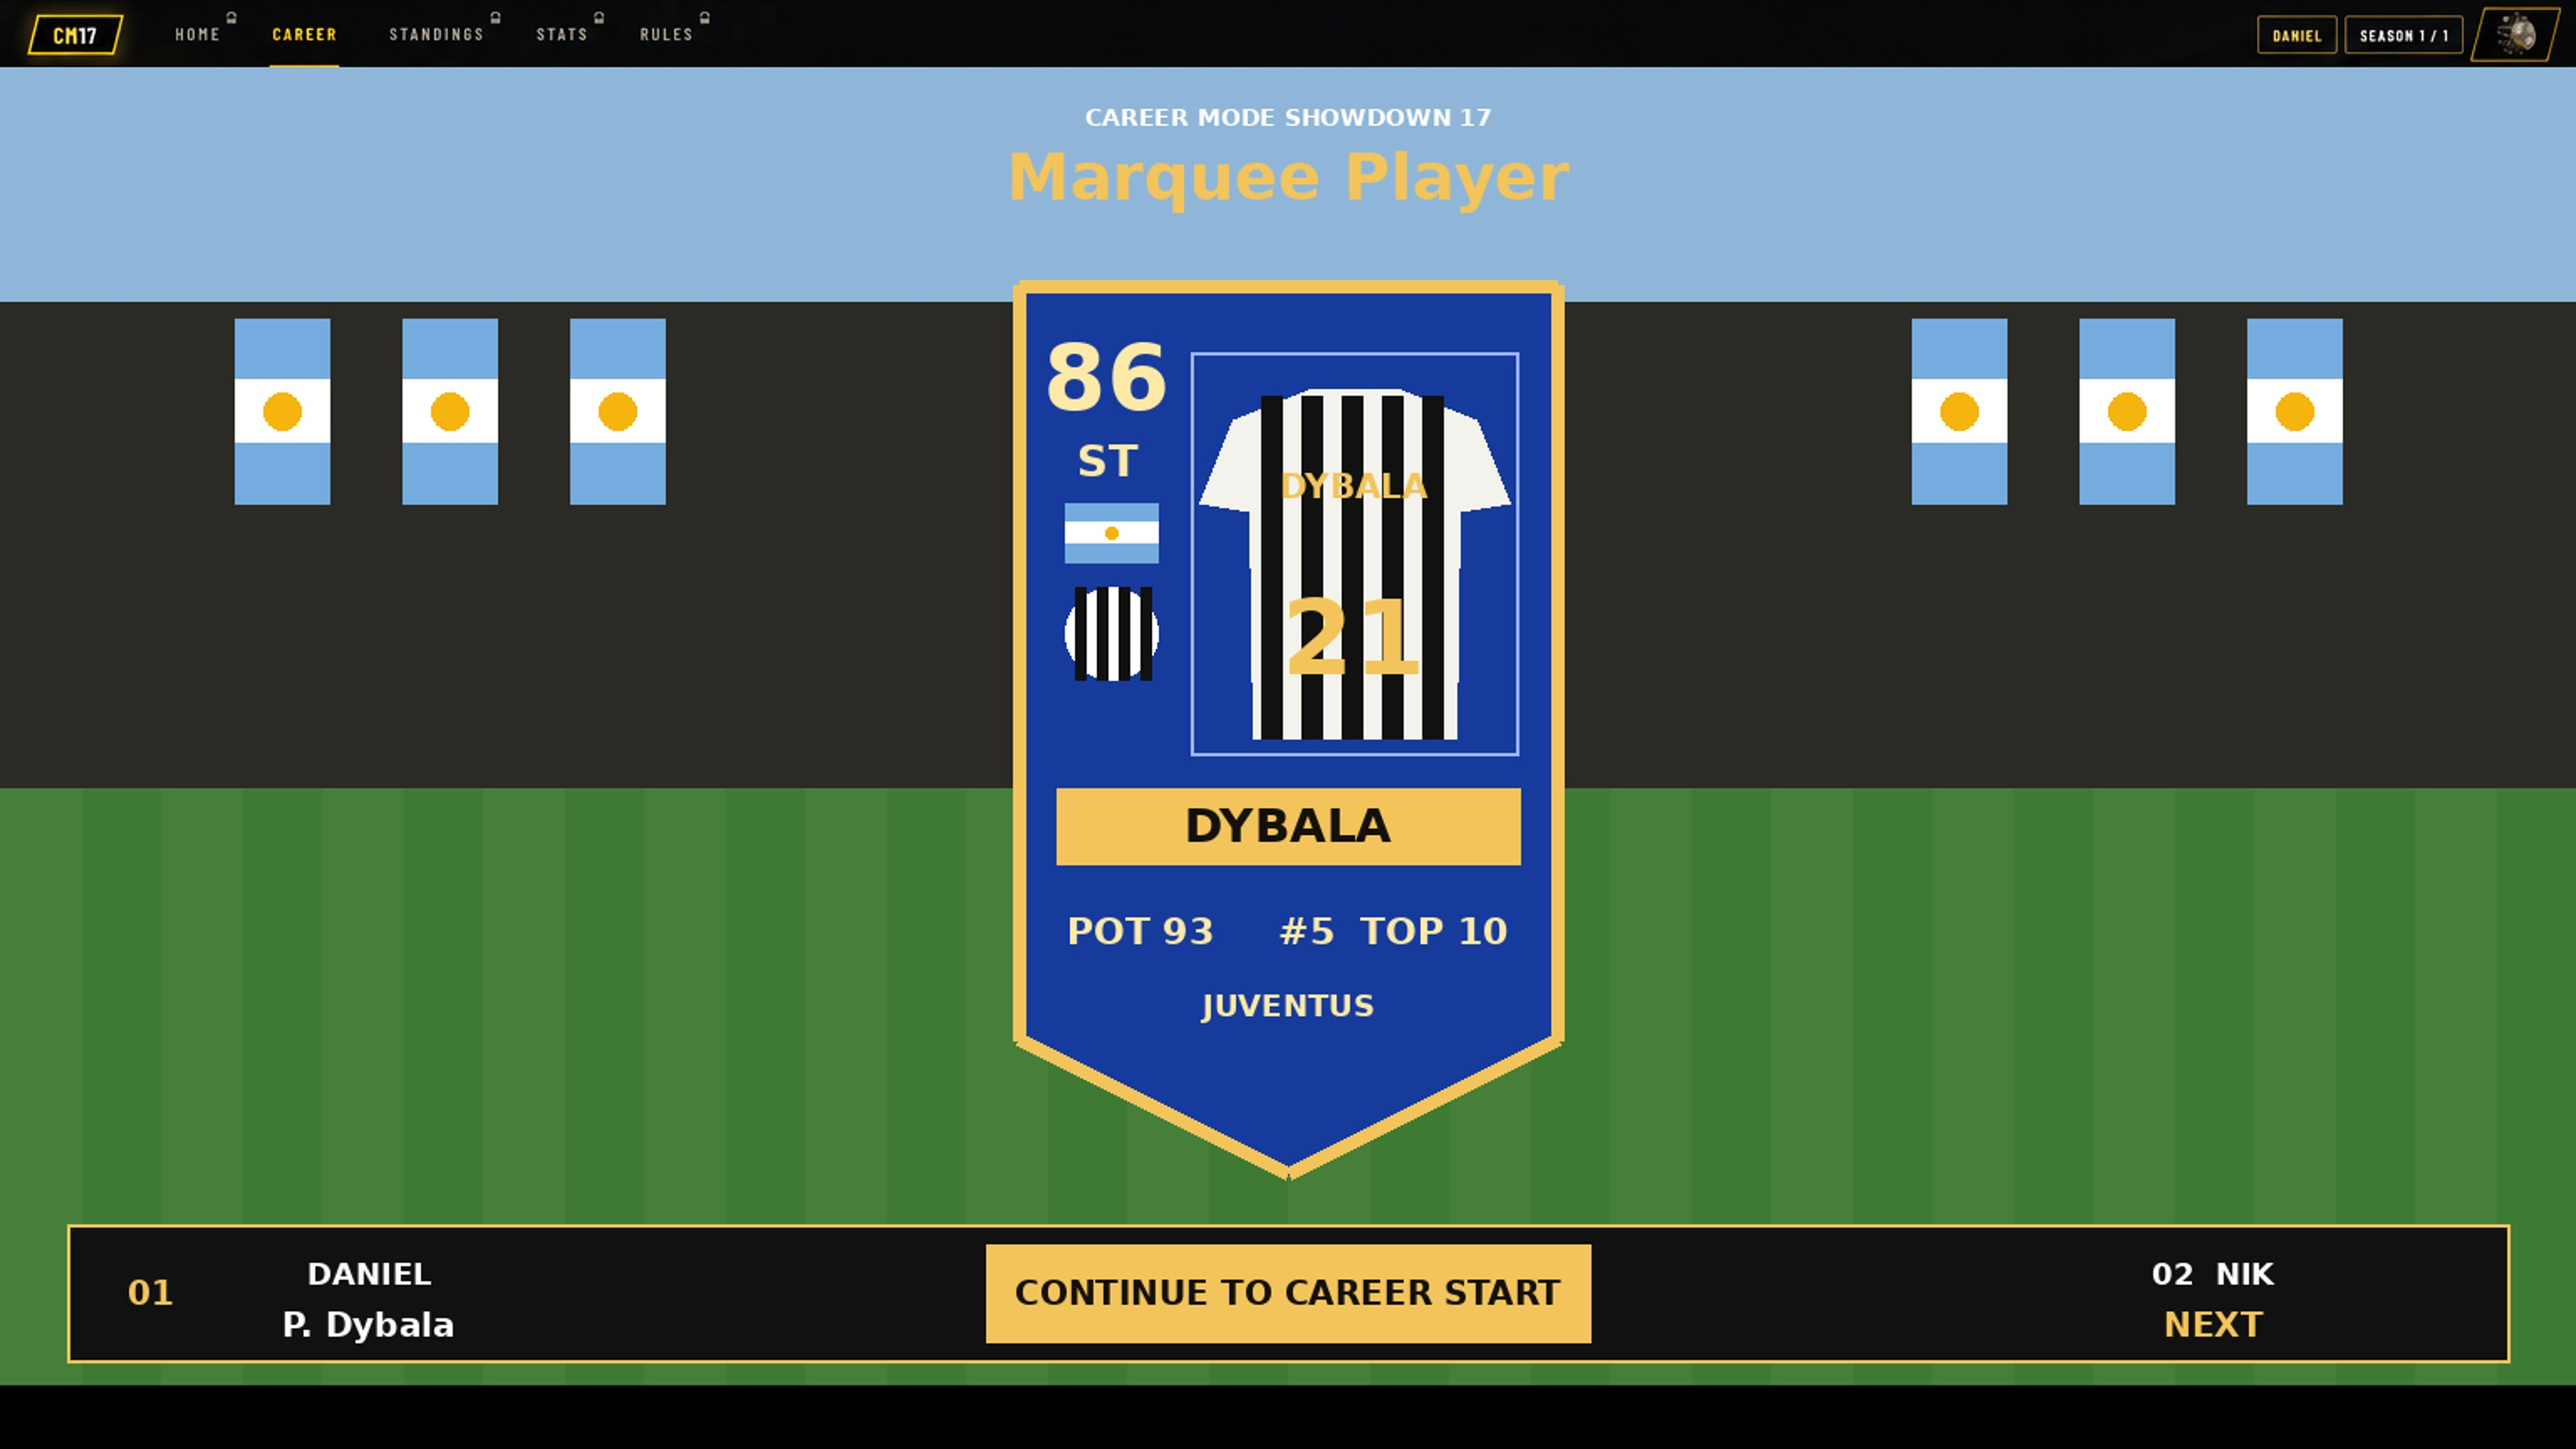
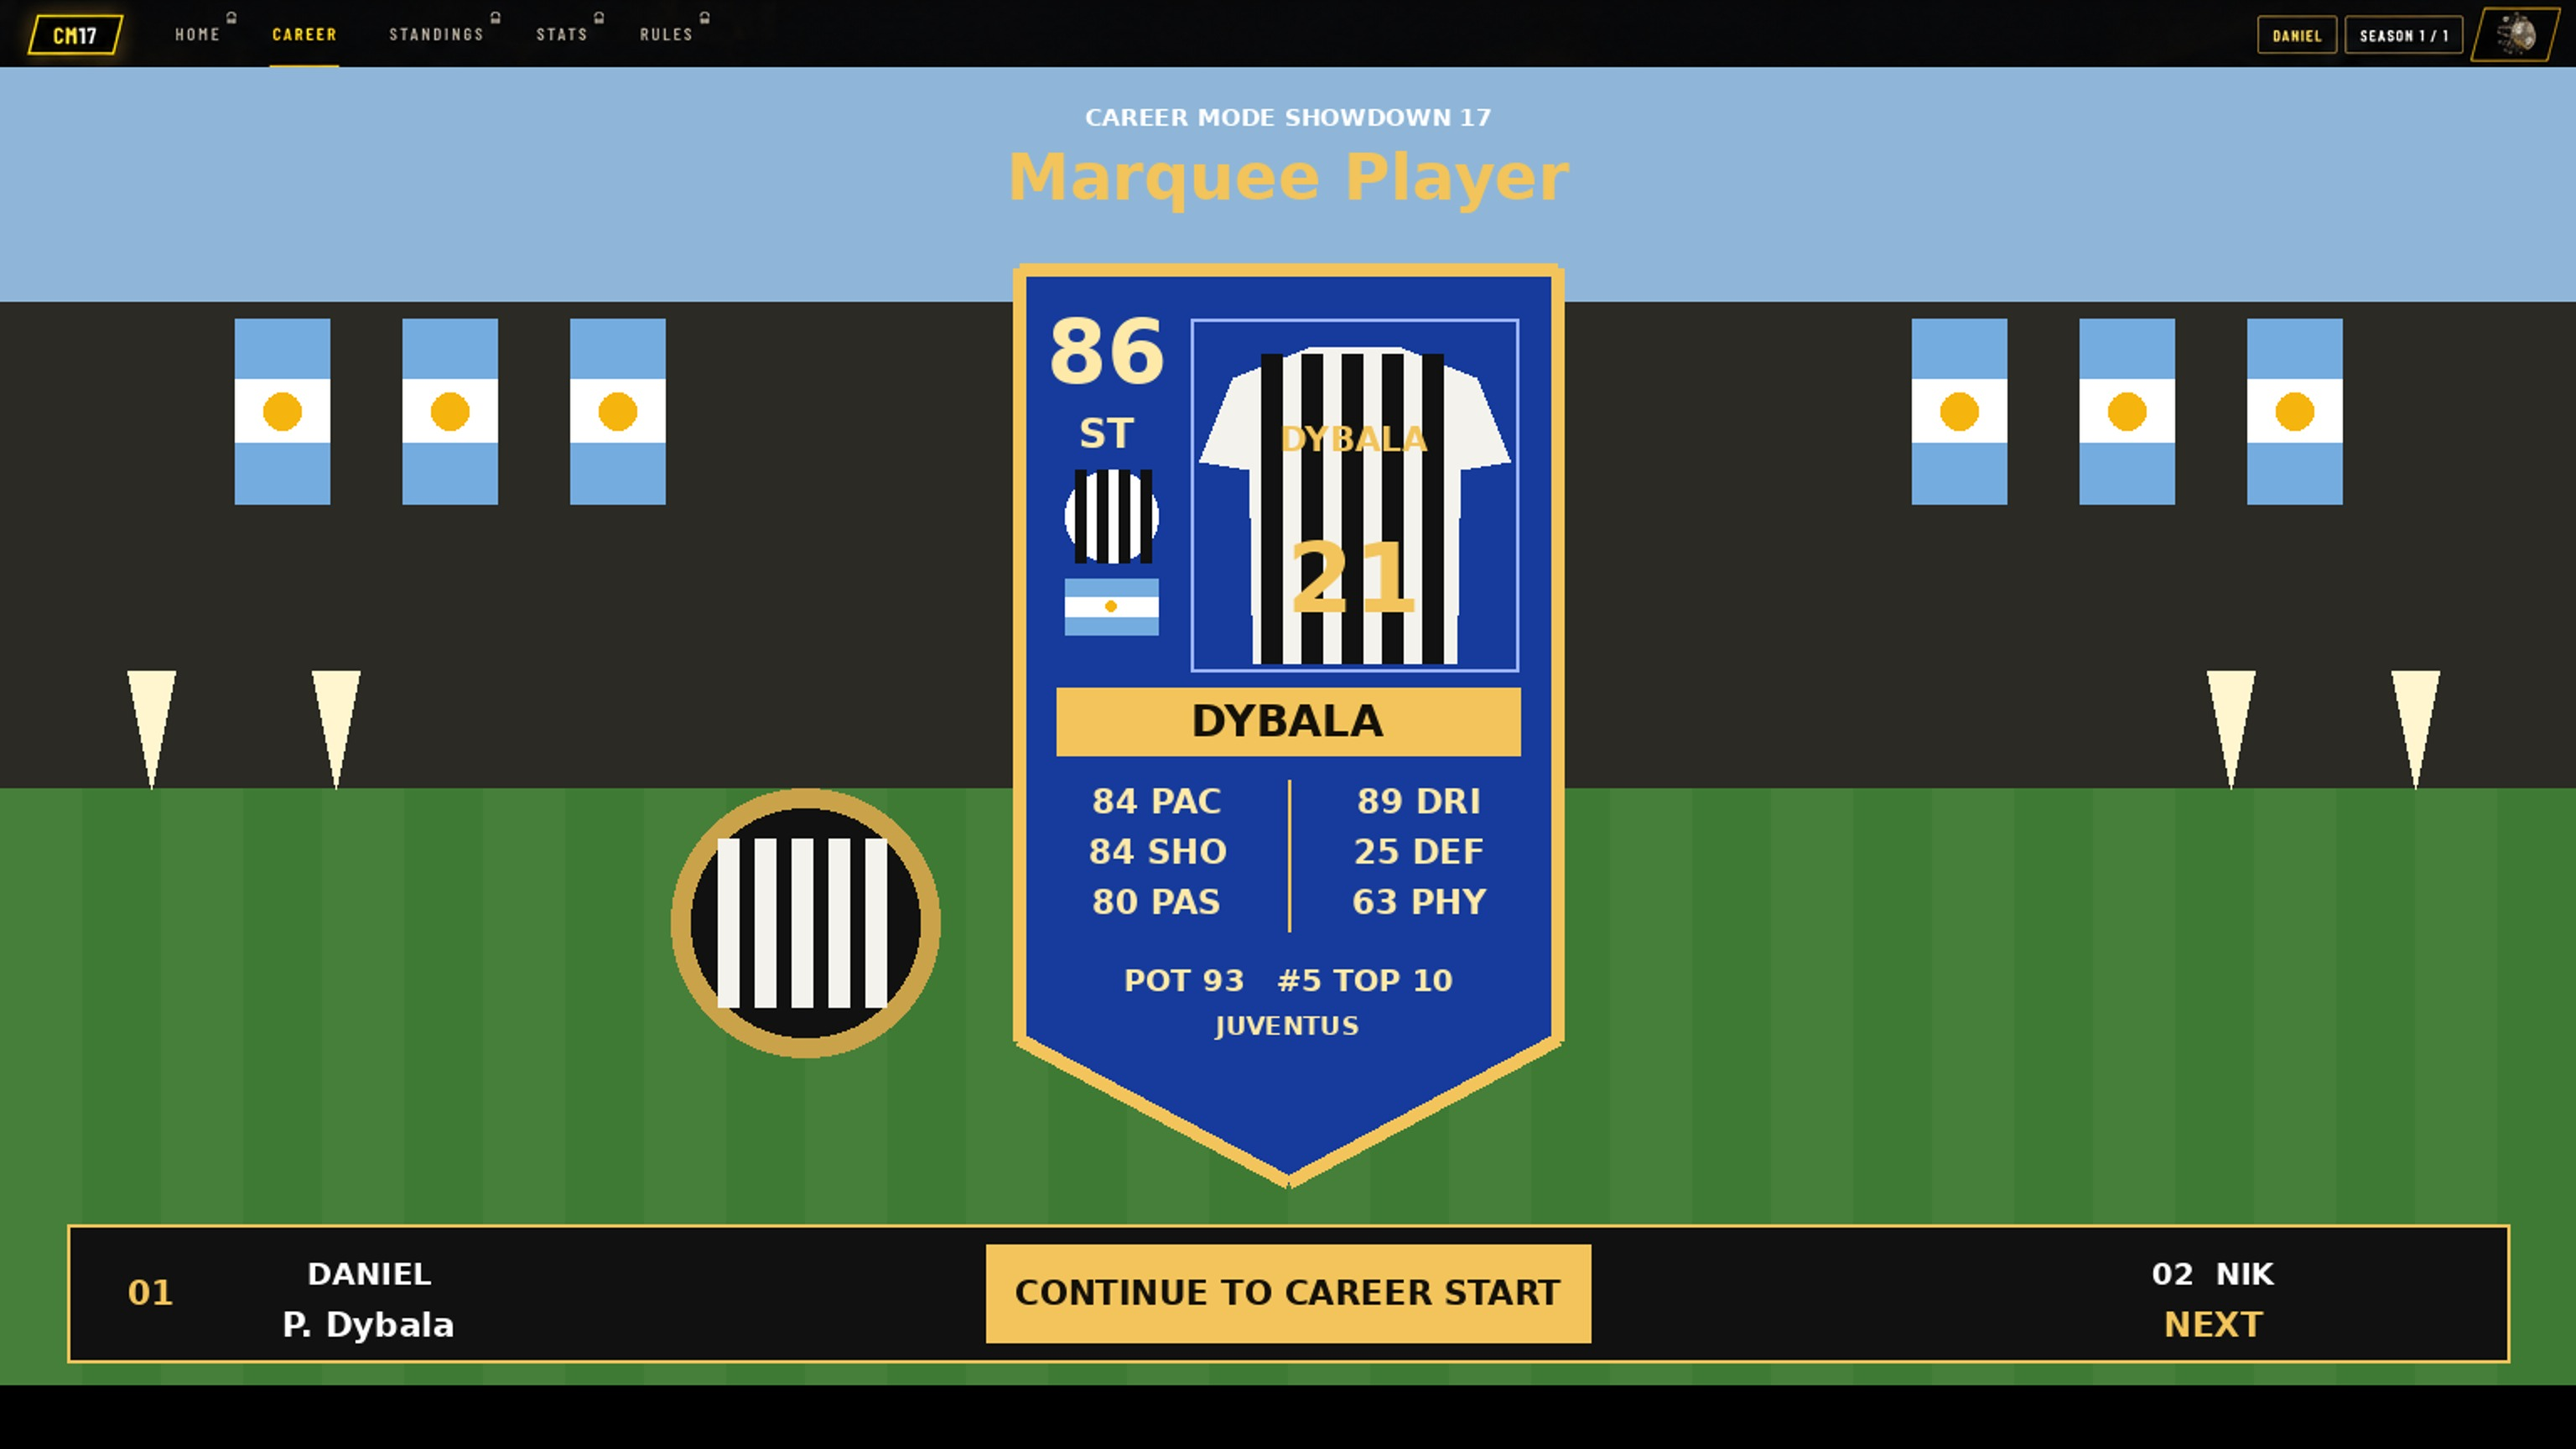
factory: ticket 1849 v8, giant club coin + six-stat card face (Nik's FIFA 17 screenshots)
Claude-Session: https://claude.ai/code/session_01GU43Q823uMY2LZ1A8aNi6Z

diff --git a/project-documents/factory/tickets/TICKET-1849_1_OF_1_NEXT_MARQUEE.md b/project-documents/factory/tickets/TICKET-1849_1_OF_1_NEXT_MARQUEE.md
@@ -1,6 +1,6 @@
 # Ticket 1849 · 1 of 1 · New desktop screen: Marquee Player pack reveal (r86, HO-035)
 
-One picture only. Version 7, Wed 28 Oct 2026, 12:45 a.m. Eastern. Rebuilt from Nik's five real FIFA 17 screenshots (12:26-12:27 a.m. Eastern) after "get a lot closer to real FIFA 17 animation, improve your quality massively". Replaces every earlier version. Study: `project-documents/factory/r86/MARQUEE_FIFA17_PACK_STUDY.md`.
+One picture only. Version 8, Wed 28 Oct 2026, 12:50 a.m. Eastern: adds the giant club coin and the six-stat card face from Nik's next three FIFA 17 screenshots (12:29 a.m.). Version 7 was rebuilt from Nik's five real FIFA 17 screenshots (12:26-12:27 a.m. Eastern) after "get a lot closer to real FIFA 17 animation, improve your quality massively". Replaces every earlier version. Study: `project-documents/factory/r86/MARQUEE_FIFA17_PACK_STUDY.md`.
 
 What is fixed: no people at all; a FIFA 17-style pack reveal in a sunny stadium; clues land on the card one by one (position, nation flag with giant flags dropping from the roofs, club coin); the card flips; no player walks out. This picture is the LAST moment: the card front settled on the pitch. It becomes the desktop target `mockups/NEXT_MARQUEE.png`.
 
@@ -11,7 +11,9 @@ Steps for Nik:
 4. Check the picture against your FIFA 17 screenshots:
    - a real-looking 3D football stadium in sunshine, camera low on the pitch, black-and-gold stands, steel roof, striped grass
    - one big card standing on the grass in the middle, casting a shadow, blue with gold edges, like a video-game player card
-   - on the card: 86, ST, the Argentina flag, a round black-and-white striped club coin, the striped shirt seen from the back with DYBALA and 21, the gold DYBALA bar, POT 93, #5, TOP 10, JUVENTUS
+   - on the card: 86, ST, a round black-and-white striped club coin, the Argentina flag, the striped shirt seen from the back with DYBALA and 21, the gold DYBALA bar, six stats in two columns (84 PAC, 84 SHO, 80 PAS, 89 DRI, 25 DEF, 63 PHY), POT 93, #5, TOP 10, JUVENTUS
+   - a big gold-rimmed club coin (black face, black-and-white stripes, no crest, no letters) stands on its edge on the grass left of the card, casting a shadow
+   - sparkler fountains spraying up at the foot of both stands
    - giant Argentina flags hang from both stand roofs; light-blue and white confetti; white sparkler bursts on the roofs
    - NO people anywhere; no EA, FIFA or FUT words or logos; no adverts
    - the bottom strip and the top bar match the sketch word for word
@@ -26,7 +28,7 @@ Turn this flat layout sketch into a finished, photorealistic desktop game screen
 
 MOST IMPORTANT (never break these):
 - No people at all: no players, no managers, no fans in focus, no faces, no silhouettes. The stands are empty or a soft blur.
-- Use ONLY the words and numbers in the sketch, copied letter for letter: CAREER MODE SHOWDOWN 17, Marquee Player, 86, ST, DYBALA, 21, POT 93, #5, TOP 10, JUVENTUS, 01, DANIEL, P. Dybala, 02, NIK, NEXT, CONTINUE TO CAREER START, and the top bar exactly as drawn (CM17, HOME, CAREER, STANDINGS, STATS, RULES, and the small chips at the right). No other words anywhere: no adverts, no stadium names, no EA, FIFA or FUT words or logos on any board or roof.
+- Use ONLY the words and numbers in the sketch, copied letter for letter: CAREER MODE SHOWDOWN 17, Marquee Player, 86, ST, DYBALA, 21, 84 PAC, 84 SHO, 80 PAS, 89 DRI, 25 DEF, 63 PHY, POT 93, #5, TOP 10, JUVENTUS, 01, DANIEL, P. Dybala, 02, NIK, NEXT, CONTINUE TO CAREER START, and the top bar exactly as drawn (CM17, HOME, CAREER, STANDINGS, STATS, RULES, and the small chips at the right). No other words anywhere: no adverts, no stadium names, no EA, FIFA or FUT words or logos on any board or roof.
 - No real club crests and no real players. The only real symbol is the national flag of Argentina.
 
 The stadium:
@@ -34,14 +36,17 @@ The stadium:
 - Steep two-tier stands on both sides and behind, with black and gold seats, a steel roof truss with yellow-gold beams, glass roof panels, empty seats. Plain gold LED boards around the pitch with no words.
 - Fresh green grass mown in wide light and dark stripes, sharp near the camera.
 - Giant Argentina flags (light blue, white, light blue with the gold sun) hang down from both roofs, three on each side, gently waving.
-- Bursts of white sparkler fireworks fire from the roof edges. Light-blue and white confetti drifts through the air and lies on the grass.
+- Bursts of white sparkler fireworks fire from the roof edges, and tall white-gold sparkler fountains spray up from the ground at the foot of both stands. Light-blue and white confetti drifts through the air and lies on the grass.
 
 The card (the hero, standing on the grass in the centre, about two thirds of the screen height):
 - A thick, glossy 3D player card standing upright on the pitch and casting a soft shadow on the grass, slightly turned towards us. Shield shape with a pointed bottom and a scalloped top edge. Finish: rich royal blue with fine diagonal pinstripes, thick polished-gold edges and a horizontal gold band, with a soft gloss highlight.
-- Top left, stacked: the big number 86, the letters ST under it, then a small Argentina flag, then a small round coin in black and white vertical stripes (no crest, no letters).
+- Top left, stacked: the big number 86, the letters ST under it, then a small round coin in black and white vertical stripes (no crest, no letters), then a small Argentina flag.
 - Right of that, where a player photo would be: a football shirt seen from the BACK in black and white vertical stripes, with DYBALA across the shoulders and the big number 21 in gold below. An original shirt: no badges, sponsors or maker logos. No person.
-- Below: a gold name band with DYBALA in bold, then POT 93, #5 and TOP 10 in a neat row, and JUVENTUS small at the bottom.
+- Below: a gold name band with DYBALA in bold; under it six stats in two neat columns split by a thin gold line: 84 PAC, 84 SHO, 80 PAS on the left and 89 DRI, 25 DEF, 63 PHY on the right; then POT 93, #5 and TOP 10 in a row, and JUVENTUS small at the bottom.
 - Little gold sparkles around the card edges, as if it has just flipped round.
+
+The club coin (left of the card, as in the sketch):
+- A huge, thick 3D coin standing on its edge on the grass, slightly turned, casting a long shadow, like a giant medal that has just rolled in: a thick polished-gold rim with a bevel, and a glossy black face showing bold black and white vertical stripes inside a gold ring. No crest, no letters, no numbers on it.
 
 The interface:
 - At the top centre, over the sky: CAREER MODE SHOWDOWN 17 small, and under it Marquee Player as a gold brush-script title with metallic shine.
